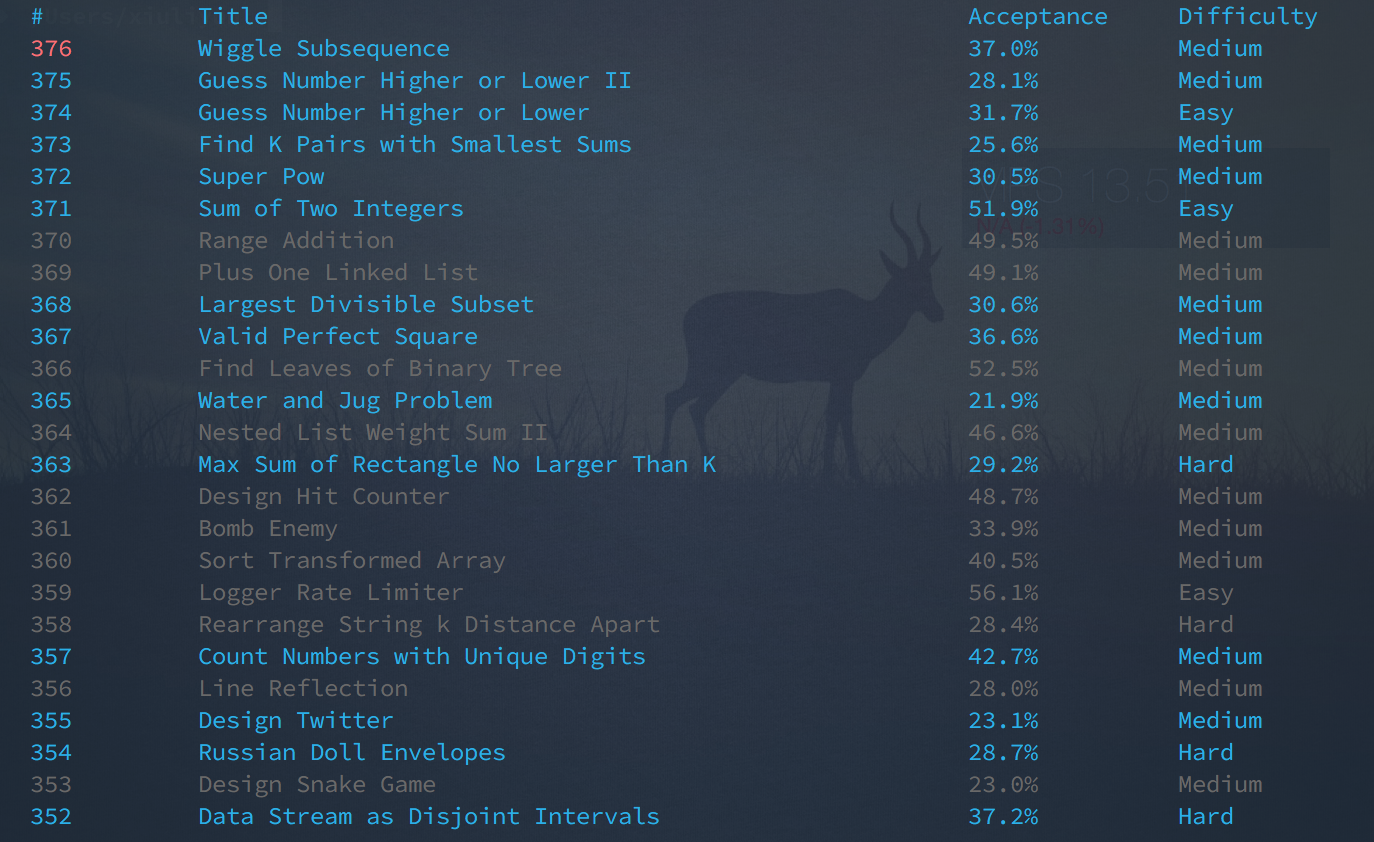
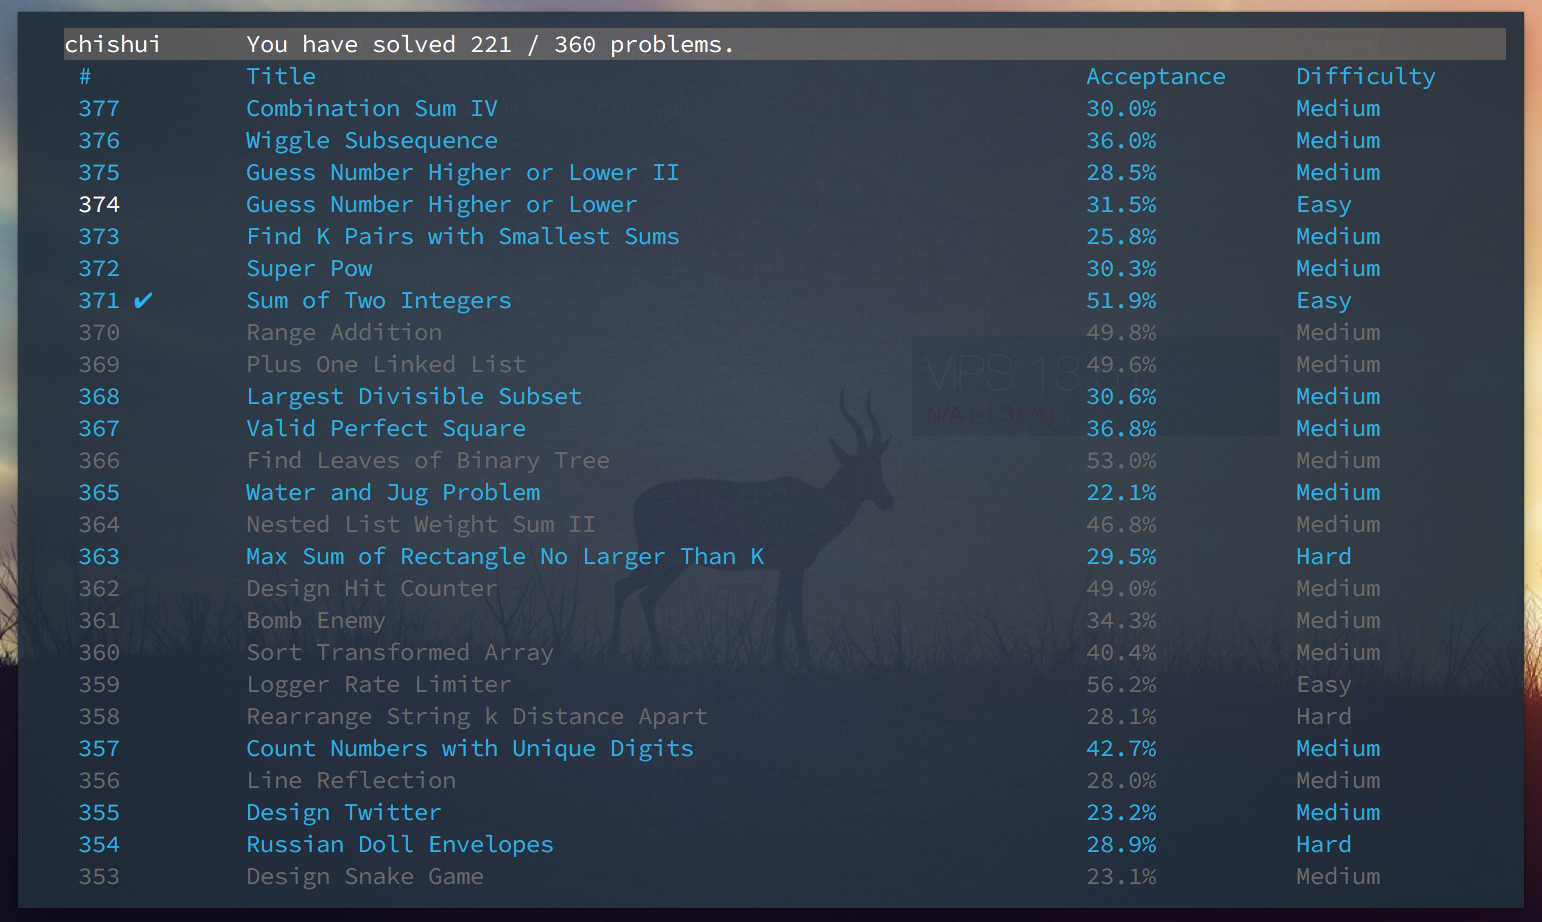
add login

Changed region(s): [[0.0, 0.0, 1.0, 1.0], [0.4585, 0.5249, 0.5197, 0.5558]]

diff --git a/leetcode/leetcode.py b/leetcode/leetcode.py
@@ -1,23 +1,44 @@
 import os
 import requests
 from bs4 import BeautifulSoup
+from .config import Config
 from .model import QuizItem
 
 BASE_URL = 'https://leetcode.com'
 HOME_URL = BASE_URL + '/problemset/algorithms'
+LOGIN_URL = BASE_URL + '/accounts/login/'
 HOME = os.path.expanduser('~')
 CONFIG = os.path.join(HOME, '.config', 'leetcode')
 DATA_FILE = os.path.join(CONFIG, 'leetcode_home.txt')
 
+headers = {
+    'Accept': 'text/html,application/xhtml+xml,application/xml;q=0.9,image/webp,*/*;q=0.8',
+    'Accept-Encoding': 'gzip, deflate, sdch',
+    'Accept-Language': 'en-US,en;q=0.8,zh-CN;q=0.6,zh;q=0.4,zh-TW;q=0.2',
+    'Connection': 'keep-alive',
+    'Host': 'leetcode.com',
+    'User-Agent': 'Mozilla/5.0 (Macintosh; Intel Mac OS X 10_10_3) AppleWebKit/537.36 (KHTML, like Gecko) Chrome/43.0.2357.130 Safari/537.36',
+    'Referer': 'https://leetcode.com/accounts/login/',
+}
+
 class Leetcode(object):
     def __init__(self):
         self.items = []
+        self.config = Config()
+        self.config.load()
+        self.session = requests.session()
+        self.cookies = None
+        self.is_login = False
 
     def __getitem__(self, i):
         return self.items[i]
 
+    @property
+    def solved(self):
+        return [i for i in self.items if i.pass_status == 'ac']
+
     def hard_retrieve_home(self):
-        text = retrieve(HOME_URL).encode('utf-8')
+        text = self.retrieve(HOME_URL).encode('utf-8')
         save_data_to_file(text, DATA_FILE)
         return self.parse_home(text)
 
@@ -34,26 +55,50 @@ class Leetcode(object):
             tds = tr.find_all('td')
             if len(tds) < 3:
                 continue
-            item = QuizItem(tds[1].text, tds[2].a.text, tds[2].a['href'], tds[3].text,
-                            tds[-1].text, tds[2].find('i', 'fa-lock') != None)
+            data = {}
+            data['pass'] = tds[0].span['class'][0]
+            data['id'] = tds[1].text
+            data['title'] = tds[2].a.text
+            data['url'] = tds[2].a['href']
+            data['acceptance'] = tds[3].text
+            data['difficulty'] = tds[-1].text
+            data['lock'] = tds[2].find('i', 'fa-lock') != None
+            item = QuizItem(data)
             self.items.append(item)
 
         return self.items
 
     def retrieve_detail(self, item):
-        text = retrieve(BASE_URL + item.url).encode('utf-8')
+        text = self.retrieve(BASE_URL + item.url).encode('utf-8')
         bs = BeautifulSoup(text, 'html.parser')
         title = bs.find('div', 'question-title').h3.text
         body = bs.find('div', 'question-content').text.replace(chr(13), '')
         return title, body
 
+    def login(self):
+        if not self.config.username or not self.config.password:
+            return False
 
-def retrieve(url):
-    r = requests.get(url)
-    if r.status_code != 200:
-        return None
+        login_data = {}
+        res = self.session.get(url=LOGIN_URL, headers=headers)
+        csrftoken = res.cookies['csrftoken']
+        login_data['csrfmiddlewaretoken'] = csrftoken
+        login_data['login'] = self.config.username
+        login_data['password'] = self.config.password
+        login_data['remember'] = "on"
+        res = self.session.post(LOGIN_URL, headers=headers, data=login_data)
+        if res.status_code != 200:
+            return False
 
-    return r.text
+        self.cookies = dict(self.session.cookies)
+        self.is_login = True
+
+    def retrieve(self, url):
+        r = self.session.get(url)
+        if r.status_code != 200:
+            return None
+
+        return r.text
 
 def save_data_to_file(data, filename):
     filepath = os.path.dirname(filename)

diff --git a/leetcode/terminal.py b/leetcode/terminal.py
@@ -8,9 +8,15 @@ class ItemWidget(urwid.WidgetWrap):
         self.id = data.id
         self.data = data
         lockbody = 'body' if not self.data.lock else 'lock'
+        pass_symbol = u''
+        if data.pass_status == 'ac':
+            pass_symbol = u'\u2714'
+        elif data.pass_status == 'notac':
+            pass_symbol = u'\u2718'
         self.item = [
             ('fixed', 15, urwid.Padding(urwid.AttrWrap(
-                urwid.Text(' %s' % str(data.id)), lockbody, 'focus'), left=2)),
+                urwid.Text(' %s %s' % (str(data.id), pass_symbol)),
+                lockbody, 'focus'), left=2)),
             urwid.AttrWrap(urwid.Text('%s' % data.title), lockbody, 'focus'),
             (15, urwid.AttrWrap(urwid.Text('%s' % data.acceptance), lockbody, 'focus')),
             (15, urwid.AttrWrap(urwid.Text('%s' % data.difficulty), lockbody, 'focus')),
@@ -51,8 +57,8 @@ class DetailView(object):
 
 palette = [
     ('body', 'dark cyan', ''),
-    ('focus', 'dark red', ''),
-    ('head', 'light gray', ''),
+    ('focus', 'white', ''),
+    ('head', 'white', 'dark gray'),
     ('lock', 'dark gray', '')
     ]
 
@@ -96,6 +102,7 @@ class Terminal(object):
         if input_text is 'R':
             items = self.leetcode.hard_retrieve_home()
             self.home_view = self.make_listview(items)
+            self.view_stack = []
             self.goto_view(self.home_view)
 
         if self.is_home and (input_text is 'l' or input_text is 'enter' or input_text is 'right'):
@@ -119,7 +126,7 @@ class Terminal(object):
 
     def make_listview(self, data):
         items = self.make_itemwidgets(data)
-        header = urwid.AttrMap(urwid.Text(''), 'head')
+        header = self.make_header()
         self.listbox = urwid.ListBox(urwid.SimpleListWalker(items))
         self.home_view = urwid.Frame(urwid.AttrWrap(self.listbox, 'body'), header=header)
         return self.home_view
@@ -143,14 +150,38 @@ class Terminal(object):
 
     def make_itemwidgets(self, data):
         items = []
-        title = QuizItem('#', 'Title', 'Url', 'Acceptance', 'Difficulty')
+        header = {}
+        header['pass'] = 'None'
+        header['id'] = '#'
+        header['title'] = 'Title'
+        header['url'] = 'Url'
+        header['acceptance'] = 'Acceptance'
+        header['difficulty'] = 'Difficulty'
+        header['lock'] = False
+        title = QuizItem(header)
         items.append(ItemWidget(title, False))
         for item in data:
             items.append(ItemWidget(item))
         return items
 
+    def make_header(self):
+        if self.leetcode.is_login:
+            columns = [
+                ('fixed', 15, urwid.Padding(urwid.AttrWrap(
+                    urwid.Text('%s' % self.leetcode.config.username),
+                    'head', ''), left=2)),
+                urwid.AttrWrap(urwid.Text('You have solved %d / %d problems. ' %
+                    (len(self.leetcode.solved), len(self.leetcode.items))), 'head', ''),
+            ]
+            return urwid.Columns(columns)
+        else:
+            text = urwid.AttrWrap(urwid.Text('Not login'), 'head')
+        return text
+
+
     def run(self):
-        data = self.leetcode.retrieve_home()
+        self.leetcode.login()
+        data = self.leetcode.hard_retrieve_home()
         self.home_view = self.make_listview(data)
         self.loop = urwid.MainLoop(self.home_view, palette, unhandled_input=self.keystroke)
         self.view_stack.append(self.home_view)

diff --git a/leetcode/config.py b/leetcode/config.py
@@ -1,0 +1,28 @@
+import os
+import ConfigParser
+
+HOME = os.path.expanduser('~')
+CONFIG_FOLDER = os.path.join(HOME, '.config', 'leetcode')
+CONFIG_FILE = os.path.join(CONFIG_FOLDER, 'config.cfg')
+
+class Config(object):
+    '''
+    Config is a class to get user's configuration from leetcode.cfg
+    config.cfg is located ~/.config/leetcdoe/config.cfg
+    keys are:
+        username
+        password
+    '''
+    def __init__(self):
+        self.parser = ConfigParser.ConfigParser()
+        self.username = None
+        self.password = None
+
+    def load(self):
+        if not os.path.exists(CONFIG_FILE):
+            return False
+
+        self.parser.read(CONFIG_FILE)
+        self.username = self.parser.get('leetcode', 'username')
+        self.password = self.parser.get('leetcode', 'password')
+        return True

diff --git a/leetcode/model.py b/leetcode/model.py
@@ -1,9 +1,10 @@
 
 class QuizItem(object):
-    def __init__(self, id, title, url, acceptance, difficulty, lock=False):
-        self.id = id
-        self.title = title
-        self.url = url
-        self.acceptance = acceptance
-        self.difficulty = difficulty
-        self.lock = lock
+    def __init__(self, data):
+        self.id = data['id']
+        self.title = data['title']
+        self.url = data['url']
+        self.acceptance = data['acceptance']
+        self.difficulty = data['difficulty']
+        self.lock = data['lock']
+        self.pass_status = data['pass']#'None', 'ac', 'notac'

diff --git a/README.md b/README.md
@@ -1,9 +1,9 @@
 ============================
 Terminal-Leetcode
 ============================
-Terminal-Leetcode is a terminal based leetcode website viewer. It's not that obvious to use
-terminal to view quizzes than use a web browser.  
+Terminal-Leetcode is a terminal based leetcode website viewer.  
 This project is inspired by RTV.
+
 ![alt text](screenshots/list.png "quiz list" )
 ![alt text](screenshots/detail.png "quiz detail")
 # Requirements
@@ -26,7 +26,6 @@ To run the program, input leetcode in terminal
 ```
  $ leetcode
 ```
-Quiz list will only be retrieved once from leetcode website, then the webpage will be stored locally.   
 # Controls:
 - Press ``H`` to see help infomation.  
 - Press ``up`` and ``down`` to go through quiz list.  
@@ -36,7 +35,7 @@ Vim's moving keys ``h``, ``j``, ``k``, ``l`` are supported.
 
 # TODO
 - Test
-- User login
+- ~~User login~~
 - Quiz list sort
 - ~~Install with pip~~
 - Get quiz default code interface
